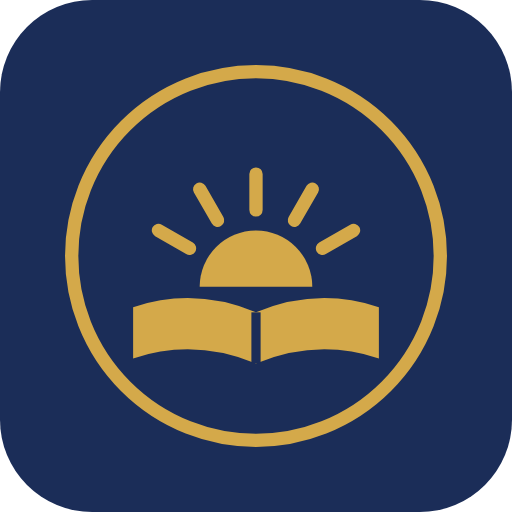
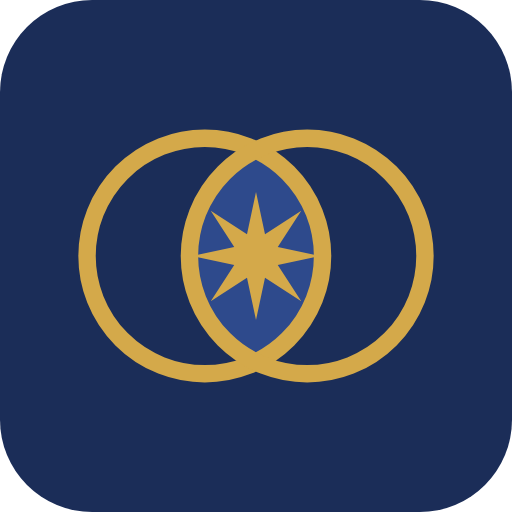
Restore the two-circles mark
Claude-Session: https://claude.ai/code/session_01EKpusVqUuYe8LVjzqWMAQ1

Changed region(s): [[0.125, 0.125, 0.875, 0.875]]

diff --git a/index.html b/index.html
@@ -12,12 +12,12 @@
 <meta property="og:title" content="Orientale Lumen Institute"><meta property="og:description" content="Spiritual, biblical, and theological education that values grassroots dialogue between Orthodox and Catholics. An institute of the Orientale Lumen Foundation.">
 <meta property="og:url" content="https://ol-institute.com/"><meta property="og:image" content="https://ol-institute.com/img/holy-fathers.jpg">
 <meta name="twitter:card" content="summary_large_image">
-<link rel="icon" href="img/brand/favicon.svg" type="image/svg+xml"><link rel="icon" href="img/brand/favicon.ico" sizes="any">
+<link rel="icon" href="img/brand/favicon.svg?v=2" type="image/svg+xml"><link rel="icon" href="img/brand/favicon.ico" sizes="any">
 <link rel="apple-touch-icon" href="img/brand/apple-touch-icon.png"><link rel="manifest" href="site.webmanifest">
 <meta name="theme-color" content="#14131a">
 <link rel="preconnect" href="https://fonts.googleapis.com"><link rel="preconnect" href="https://fonts.gstatic.com" crossorigin>
 <link rel="stylesheet" href="https://fonts.googleapis.com/css2?family=Mrs+Saint+Delafield&family=Spectral:ital,wght@0,400;0,500;0,600;1,400;1,500&family=Source+Sans+3:wght@400;500;600&display=swap">
-<link rel="stylesheet" href="styles.css?v=1022e">
+<link rel="stylesheet" href="styles.css?v=1022f">
 <script type="application/ld+json">{"@context": "https://schema.org", "@type": "EducationalOrganization", "name": "Orientale Lumen Institute", "url": "https://ol-institute.com", "email": "jackfigel@ol-institute.com", "telephone": "+1-703-691-8585", "address": {"@type": "PostalAddress", "streetAddress": "3574 University Drive", "addressLocality": "Fairfax", "addressRegion": "VA", "postalCode": "22030", "addressCountry": "US"}, "parentOrganization": {"@type": "Organization", "name": "Orientale Lumen Foundation", "url": "https://olfoundation.net"}}</script>
 </head>
 <body>
@@ -26,7 +26,7 @@
   <span>An institute of the <a href="https://olfoundation.net/" target="_blank" rel="noopener">Orientale Lumen Foundation</a></span>
 </div></div>
 <header class="site-head"><div class="wrap bar">
-  <a class="brand" href="index.html"><img src="img/brand/mark.svg" alt="" width="44" height="44"><span><b>Orientale Lumen</b>Institute</span></a>
+  <a class="brand" href="index.html"><img src="img/brand/mark.svg?v=2" alt="" width="44" height="44"><span><b>Orientale Lumen</b>Institute</span></a>
   <button class="menu-btn" id="menu-btn" aria-expanded="false" aria-controls="site-nav"><i aria-hidden="true"></i>Menu</button>
   <nav class="nav" id="site-nav" aria-label="Main"><a href="programs.html">Programs</a><a href="formation.html">Formation</a><a href="gatherings.html">Conferences</a><a href="lectures-from-oxford.html">Kallistos Lectures</a><a href="media.html">Media</a><a href="about.html">About</a><a href="https://ol-institute.com/online-store" target="_blank" rel="noopener">Store</a><a class="btn gold small" href="give.html">Give</a></nav>
 </div></header>
@@ -45,7 +45,7 @@
 <section class="sec letter-sec" id="welcome"><div class="wrap letter">
   <figure class="letter-portrait"><picture><source srcset="img/jack-portrait.webp" type="image/webp"><img src="img/jack-portrait.jpg" alt="Jack Figel" loading="lazy" decoding="async" width="640" height="800"></picture><figcaption><b>Jack Figel</b>Founded the Orientale Lumen Conference in 1997</figcaption></figure>
   <article class="sheet letter-body" aria-label="A word from our founder">
-    <header class="lh"><img src="img/brand/mark.svg" alt="" width="40" height="40"><span><b>Orientale Lumen Institute</b>A word from our founder</span></header>
+    <header class="lh"><img src="img/brand/mark.svg?v=2" alt="" width="40" height="40"><span><b>Orientale Lumen Institute</b>A word from our founder</span></header>
     <p class="salute">Dear friends,</p>
     <p>When I started the Orientale Lumen Conference, Pope John Paul’s apostolic letter <cite>Orientale Lumen</cite> was not getting a lot of attention. Over dinner I proposed an open-to-the-public meeting about it to Bishop Kallistos. He immediately agreed, got his diary out, and we planned the first conference for June 1997. About a hundred people came.</p>
     <p>Ever since, we have tried to keep a balance: prayer for the soul, lectures for the mind, and fellowship for the spirit. Eastern Orthodox, Eastern Catholics and Roman Catholics meet and pray together and learn from each other’s traditions, trying to obey Christ’s command, “that they all may be one,” for which he prayed at the Last Supper.</p>
@@ -136,7 +136,7 @@
 <footer class="site-foot">
   <div class="wrap foot-top">
     <div class="fbrand">
-      <a class="fname" href="index.html"><img src="img/brand/mark.svg" alt="" width="40" height="40" loading="lazy"><span>Orientale Lumen Institute</span></a>
+      <a class="fname" href="index.html"><img src="img/brand/mark.svg?v=2" alt="" width="40" height="40" loading="lazy"><span>Orientale Lumen Institute</span></a>
       <p class="foot-tag">Spiritual, biblical, and theological education that values grassroots dialogue between Orthodox and Catholics.</p>
       <address>3574 University Drive, Fairfax, VA 22030<br><a href="tel:+17036918585">+1 703-691-8585</a> <i>·</i> <a href="mailto:jackfigel@ol-institute.com">jackfigel@ol-institute.com</a></address>
     </div>

diff --git a/programs.html b/programs.html
@@ -12,12 +12,12 @@
 <meta property="og:title" content="Academic Programs · Orientale Lumen Institute"><meta property="og:description" content="Certificate, diploma, and graduate programs in spirituality, Scripture, theology, and ecumenism, plus continuing education.">
 <meta property="og:url" content="https://ol-institute.com/programs.html"><meta property="og:image" content="https://ol-institute.com/img/22-dsc-0042-scaled.jpg">
 <meta name="twitter:card" content="summary_large_image">
-<link rel="icon" href="img/brand/favicon.svg" type="image/svg+xml"><link rel="icon" href="img/brand/favicon.ico" sizes="any">
+<link rel="icon" href="img/brand/favicon.svg?v=2" type="image/svg+xml"><link rel="icon" href="img/brand/favicon.ico" sizes="any">
 <link rel="apple-touch-icon" href="img/brand/apple-touch-icon.png"><link rel="manifest" href="site.webmanifest">
 <meta name="theme-color" content="#14131a">
 <link rel="preconnect" href="https://fonts.googleapis.com"><link rel="preconnect" href="https://fonts.gstatic.com" crossorigin>
 <link rel="stylesheet" href="https://fonts.googleapis.com/css2?family=Mrs+Saint+Delafield&family=Spectral:ital,wght@0,400;0,500;0,600;1,400;1,500&family=Source+Sans+3:wght@400;500;600&display=swap">
-<link rel="stylesheet" href="styles.css?v=1022e">
+<link rel="stylesheet" href="styles.css?v=1022f">
 
 </head>
 <body>
@@ -26,7 +26,7 @@
   <span>An institute of the <a href="https://olfoundation.net/" target="_blank" rel="noopener">Orientale Lumen Foundation</a></span>
 </div></div>
 <header class="site-head"><div class="wrap bar">
-  <a class="brand" href="index.html"><img src="img/brand/mark.svg" alt="" width="44" height="44"><span><b>Orientale Lumen</b>Institute</span></a>
+  <a class="brand" href="index.html"><img src="img/brand/mark.svg?v=2" alt="" width="44" height="44"><span><b>Orientale Lumen</b>Institute</span></a>
   <button class="menu-btn" id="menu-btn" aria-expanded="false" aria-controls="site-nav"><i aria-hidden="true"></i>Menu</button>
   <nav class="nav" id="site-nav" aria-label="Main"><a href="programs.html" aria-current="page">Programs</a><a href="formation.html">Formation</a><a href="gatherings.html">Conferences</a><a href="lectures-from-oxford.html">Kallistos Lectures</a><a href="media.html">Media</a><a href="about.html">About</a><a href="https://ol-institute.com/online-store" target="_blank" rel="noopener">Store</a><a class="btn gold small" href="give.html">Give</a></nav>
 </div></header>
@@ -116,7 +116,7 @@
 <footer class="site-foot">
   <div class="wrap foot-top">
     <div class="fbrand">
-      <a class="fname" href="index.html"><img src="img/brand/mark.svg" alt="" width="40" height="40" loading="lazy"><span>Orientale Lumen Institute</span></a>
+      <a class="fname" href="index.html"><img src="img/brand/mark.svg?v=2" alt="" width="40" height="40" loading="lazy"><span>Orientale Lumen Institute</span></a>
       <p class="foot-tag">Spiritual, biblical, and theological education that values grassroots dialogue between Orthodox and Catholics.</p>
       <address>3574 University Drive, Fairfax, VA 22030<br><a href="tel:+17036918585">+1 703-691-8585</a> <i>·</i> <a href="mailto:jackfigel@ol-institute.com">jackfigel@ol-institute.com</a></address>
     </div>

diff --git a/give.html b/give.html
@@ -12,12 +12,12 @@
 <meta property="og:title" content="Give · Orientale Lumen Institute"><meta property="og:description" content="Make a gift to the Orientale Lumen Institute. Help endow a chair in ecumenical studies and support instructors, lecture materials, and technology.">
 <meta property="og:url" content="https://ol-institute.com/give.html"><meta property="og:image" content="https://ol-institute.com/img/olxxx-liturgy.jpg">
 <meta name="twitter:card" content="summary_large_image">
-<link rel="icon" href="img/brand/favicon.svg" type="image/svg+xml"><link rel="icon" href="img/brand/favicon.ico" sizes="any">
+<link rel="icon" href="img/brand/favicon.svg?v=2" type="image/svg+xml"><link rel="icon" href="img/brand/favicon.ico" sizes="any">
 <link rel="apple-touch-icon" href="img/brand/apple-touch-icon.png"><link rel="manifest" href="site.webmanifest">
 <meta name="theme-color" content="#14131a">
 <link rel="preconnect" href="https://fonts.googleapis.com"><link rel="preconnect" href="https://fonts.gstatic.com" crossorigin>
 <link rel="stylesheet" href="https://fonts.googleapis.com/css2?family=Mrs+Saint+Delafield&family=Spectral:ital,wght@0,400;0,500;0,600;1,400;1,500&family=Source+Sans+3:wght@400;500;600&display=swap">
-<link rel="stylesheet" href="styles.css?v=1022e">
+<link rel="stylesheet" href="styles.css?v=1022f">
 
 </head>
 <body>
@@ -26,7 +26,7 @@
   <span>An institute of the <a href="https://olfoundation.net/" target="_blank" rel="noopener">Orientale Lumen Foundation</a></span>
 </div></div>
 <header class="site-head"><div class="wrap bar">
-  <a class="brand" href="index.html"><img src="img/brand/mark.svg" alt="" width="44" height="44"><span><b>Orientale Lumen</b>Institute</span></a>
+  <a class="brand" href="index.html"><img src="img/brand/mark.svg?v=2" alt="" width="44" height="44"><span><b>Orientale Lumen</b>Institute</span></a>
   <button class="menu-btn" id="menu-btn" aria-expanded="false" aria-controls="site-nav"><i aria-hidden="true"></i>Menu</button>
   <nav class="nav" id="site-nav" aria-label="Main"><a href="programs.html">Programs</a><a href="formation.html">Formation</a><a href="gatherings.html">Conferences</a><a href="lectures-from-oxford.html">Kallistos Lectures</a><a href="media.html">Media</a><a href="about.html">About</a><a href="https://ol-institute.com/online-store" target="_blank" rel="noopener">Store</a><a class="btn gold small" href="give.html" aria-current="page">Give</a></nav>
 </div></header>
@@ -72,7 +72,7 @@
 <footer class="site-foot">
   <div class="wrap foot-top">
     <div class="fbrand">
-      <a class="fname" href="index.html"><img src="img/brand/mark.svg" alt="" width="40" height="40" loading="lazy"><span>Orientale Lumen Institute</span></a>
+      <a class="fname" href="index.html"><img src="img/brand/mark.svg?v=2" alt="" width="40" height="40" loading="lazy"><span>Orientale Lumen Institute</span></a>
       <p class="foot-tag">Spiritual, biblical, and theological education that values grassroots dialogue between Orthodox and Catholics.</p>
       <address>3574 University Drive, Fairfax, VA 22030<br><a href="tel:+17036918585">+1 703-691-8585</a> <i>·</i> <a href="mailto:jackfigel@ol-institute.com">jackfigel@ol-institute.com</a></address>
     </div>

diff --git a/formation.html b/formation.html
@@ -12,12 +12,12 @@
 <meta property="og:title" content="Spiritual Formation · Orientale Lumen Institute"><meta property="og:description" content="Retreats through the Church’s year, spiritual direction, and study pilgrimages as the next step in formation.">
 <meta property="og:url" content="https://ol-institute.com/formation.html"><meta property="og:image" content="https://ol-institute.com/img/16-dsc-0004-scaled.jpg">
 <meta name="twitter:card" content="summary_large_image">
-<link rel="icon" href="img/brand/favicon.svg" type="image/svg+xml"><link rel="icon" href="img/brand/favicon.ico" sizes="any">
+<link rel="icon" href="img/brand/favicon.svg?v=2" type="image/svg+xml"><link rel="icon" href="img/brand/favicon.ico" sizes="any">
 <link rel="apple-touch-icon" href="img/brand/apple-touch-icon.png"><link rel="manifest" href="site.webmanifest">
 <meta name="theme-color" content="#14131a">
 <link rel="preconnect" href="https://fonts.googleapis.com"><link rel="preconnect" href="https://fonts.gstatic.com" crossorigin>
 <link rel="stylesheet" href="https://fonts.googleapis.com/css2?family=Mrs+Saint+Delafield&family=Spectral:ital,wght@0,400;0,500;0,600;1,400;1,500&family=Source+Sans+3:wght@400;500;600&display=swap">
-<link rel="stylesheet" href="styles.css?v=1022e">
+<link rel="stylesheet" href="styles.css?v=1022f">
 
 </head>
 <body>
@@ -26,7 +26,7 @@
   <span>An institute of the <a href="https://olfoundation.net/" target="_blank" rel="noopener">Orientale Lumen Foundation</a></span>
 </div></div>
 <header class="site-head"><div class="wrap bar">
-  <a class="brand" href="index.html"><img src="img/brand/mark.svg" alt="" width="44" height="44"><span><b>Orientale Lumen</b>Institute</span></a>
+  <a class="brand" href="index.html"><img src="img/brand/mark.svg?v=2" alt="" width="44" height="44"><span><b>Orientale Lumen</b>Institute</span></a>
   <button class="menu-btn" id="menu-btn" aria-expanded="false" aria-controls="site-nav"><i aria-hidden="true"></i>Menu</button>
   <nav class="nav" id="site-nav" aria-label="Main"><a href="programs.html">Programs</a><a href="formation.html" aria-current="page">Formation</a><a href="gatherings.html">Conferences</a><a href="lectures-from-oxford.html">Kallistos Lectures</a><a href="media.html">Media</a><a href="about.html">About</a><a href="https://ol-institute.com/online-store" target="_blank" rel="noopener">Store</a><a class="btn gold small" href="give.html">Give</a></nav>
 </div></header>
@@ -97,7 +97,7 @@
 <footer class="site-foot">
   <div class="wrap foot-top">
     <div class="fbrand">
-      <a class="fname" href="index.html"><img src="img/brand/mark.svg" alt="" width="40" height="40" loading="lazy"><span>Orientale Lumen Institute</span></a>
+      <a class="fname" href="index.html"><img src="img/brand/mark.svg?v=2" alt="" width="40" height="40" loading="lazy"><span>Orientale Lumen Institute</span></a>
       <p class="foot-tag">Spiritual, biblical, and theological education that values grassroots dialogue between Orthodox and Catholics.</p>
       <address>3574 University Drive, Fairfax, VA 22030<br><a href="tel:+17036918585">+1 703-691-8585</a> <i>·</i> <a href="mailto:jackfigel@ol-institute.com">jackfigel@ol-institute.com</a></address>
     </div>

diff --git a/lectures-from-oxford.html b/lectures-from-oxford.html
@@ -12,12 +12,12 @@
 <meta property="og:title" content="Lectures from Oxford · Orientale Lumen Institute"><meta property="og:description" content="Over 100 lectures by Metropolitan Kallistos of Diokleia in six volumes, as books, video and audio.">
 <meta property="og:url" content="https://ol-institute.com/lectures-from-oxford.html"><meta property="og:image" content="https://ol-institute.com/img/41-olee3-panel.jpg">
 <meta name="twitter:card" content="summary_large_image">
-<link rel="icon" href="img/brand/favicon.svg" type="image/svg+xml"><link rel="icon" href="img/brand/favicon.ico" sizes="any">
+<link rel="icon" href="img/brand/favicon.svg?v=2" type="image/svg+xml"><link rel="icon" href="img/brand/favicon.ico" sizes="any">
 <link rel="apple-touch-icon" href="img/brand/apple-touch-icon.png"><link rel="manifest" href="site.webmanifest">
 <meta name="theme-color" content="#14131a">
 <link rel="preconnect" href="https://fonts.googleapis.com"><link rel="preconnect" href="https://fonts.gstatic.com" crossorigin>
 <link rel="stylesheet" href="https://fonts.googleapis.com/css2?family=Mrs+Saint+Delafield&family=Spectral:ital,wght@0,400;0,500;0,600;1,400;1,500&family=Source+Sans+3:wght@400;500;600&display=swap">
-<link rel="stylesheet" href="styles.css?v=1022e">
+<link rel="stylesheet" href="styles.css?v=1022f">
 
 </head>
 <body>
@@ -26,7 +26,7 @@
   <span>An institute of the <a href="https://olfoundation.net/" target="_blank" rel="noopener">Orientale Lumen Foundation</a></span>
 </div></div>
 <header class="site-head"><div class="wrap bar">
-  <a class="brand" href="index.html"><img src="img/brand/mark.svg" alt="" width="44" height="44"><span><b>Orientale Lumen</b>Institute</span></a>
+  <a class="brand" href="index.html"><img src="img/brand/mark.svg?v=2" alt="" width="44" height="44"><span><b>Orientale Lumen</b>Institute</span></a>
   <button class="menu-btn" id="menu-btn" aria-expanded="false" aria-controls="site-nav"><i aria-hidden="true"></i>Menu</button>
   <nav class="nav" id="site-nav" aria-label="Main"><a href="programs.html">Programs</a><a href="formation.html">Formation</a><a href="gatherings.html">Conferences</a><a href="lectures-from-oxford.html" aria-current="page">Kallistos Lectures</a><a href="media.html">Media</a><a href="about.html">About</a><a href="https://ol-institute.com/online-store" target="_blank" rel="noopener">Store</a><a class="btn gold small" href="give.html">Give</a></nav>
 </div></header>
@@ -139,7 +139,7 @@
 <footer class="site-foot">
   <div class="wrap foot-top">
     <div class="fbrand">
-      <a class="fname" href="index.html"><img src="img/brand/mark.svg" alt="" width="40" height="40" loading="lazy"><span>Orientale Lumen Institute</span></a>
+      <a class="fname" href="index.html"><img src="img/brand/mark.svg?v=2" alt="" width="40" height="40" loading="lazy"><span>Orientale Lumen Institute</span></a>
       <p class="foot-tag">Spiritual, biblical, and theological education that values grassroots dialogue between Orthodox and Catholics.</p>
       <address>3574 University Drive, Fairfax, VA 22030<br><a href="tel:+17036918585">+1 703-691-8585</a> <i>·</i> <a href="mailto:jackfigel@ol-institute.com">jackfigel@ol-institute.com</a></address>
     </div>

diff --git a/media.html b/media.html
@@ -12,12 +12,12 @@
 <meta property="og:title" content="Media &amp; Publications · Orientale Lumen Institute"><meta property="og:description" content="OLTelevision, Eastern Christian Publications, and media production.">
 <meta property="og:url" content="https://ol-institute.com/media.html"><meta property="og:image" content="https://ol-institute.com/img/olxxx-koch-address.jpg">
 <meta name="twitter:card" content="summary_large_image">
-<link rel="icon" href="img/brand/favicon.svg" type="image/svg+xml"><link rel="icon" href="img/brand/favicon.ico" sizes="any">
+<link rel="icon" href="img/brand/favicon.svg?v=2" type="image/svg+xml"><link rel="icon" href="img/brand/favicon.ico" sizes="any">
 <link rel="apple-touch-icon" href="img/brand/apple-touch-icon.png"><link rel="manifest" href="site.webmanifest">
 <meta name="theme-color" content="#14131a">
 <link rel="preconnect" href="https://fonts.googleapis.com"><link rel="preconnect" href="https://fonts.gstatic.com" crossorigin>
 <link rel="stylesheet" href="https://fonts.googleapis.com/css2?family=Mrs+Saint+Delafield&family=Spectral:ital,wght@0,400;0,500;0,600;1,400;1,500&family=Source+Sans+3:wght@400;500;600&display=swap">
-<link rel="stylesheet" href="styles.css?v=1022e">
+<link rel="stylesheet" href="styles.css?v=1022f">
 
 </head>
 <body>
@@ -26,7 +26,7 @@
   <span>An institute of the <a href="https://olfoundation.net/" target="_blank" rel="noopener">Orientale Lumen Foundation</a></span>
 </div></div>
 <header class="site-head"><div class="wrap bar">
-  <a class="brand" href="index.html"><img src="img/brand/mark.svg" alt="" width="44" height="44"><span><b>Orientale Lumen</b>Institute</span></a>
+  <a class="brand" href="index.html"><img src="img/brand/mark.svg?v=2" alt="" width="44" height="44"><span><b>Orientale Lumen</b>Institute</span></a>
   <button class="menu-btn" id="menu-btn" aria-expanded="false" aria-controls="site-nav"><i aria-hidden="true"></i>Menu</button>
   <nav class="nav" id="site-nav" aria-label="Main"><a href="programs.html">Programs</a><a href="formation.html">Formation</a><a href="gatherings.html">Conferences</a><a href="lectures-from-oxford.html">Kallistos Lectures</a><a href="media.html" aria-current="page">Media</a><a href="about.html">About</a><a href="https://ol-institute.com/online-store" target="_blank" rel="noopener">Store</a><a class="btn gold small" href="give.html">Give</a></nav>
 </div></header>
@@ -74,7 +74,7 @@
 <footer class="site-foot">
   <div class="wrap foot-top">
     <div class="fbrand">
-      <a class="fname" href="index.html"><img src="img/brand/mark.svg" alt="" width="40" height="40" loading="lazy"><span>Orientale Lumen Institute</span></a>
+      <a class="fname" href="index.html"><img src="img/brand/mark.svg?v=2" alt="" width="40" height="40" loading="lazy"><span>Orientale Lumen Institute</span></a>
       <p class="foot-tag">Spiritual, biblical, and theological education that values grassroots dialogue between Orthodox and Catholics.</p>
       <address>3574 University Drive, Fairfax, VA 22030<br><a href="tel:+17036918585">+1 703-691-8585</a> <i>·</i> <a href="mailto:jackfigel@ol-institute.com">jackfigel@ol-institute.com</a></address>
     </div>

diff --git a/gatherings.html b/gatherings.html
@@ -12,12 +12,12 @@
 <meta property="og:title" content="Conferences &amp; Lectures · Orientale Lumen Institute"><meta property="og:description" content="An annual flagship conference and a quarterly lecture series.">
 <meta property="og:url" content="https://ol-institute.com/gatherings.html"><meta property="og:image" content="https://ol-institute.com/img/olxxx-hero-panel.jpg">
 <meta name="twitter:card" content="summary_large_image">
-<link rel="icon" href="img/brand/favicon.svg" type="image/svg+xml"><link rel="icon" href="img/brand/favicon.ico" sizes="any">
+<link rel="icon" href="img/brand/favicon.svg?v=2" type="image/svg+xml"><link rel="icon" href="img/brand/favicon.ico" sizes="any">
 <link rel="apple-touch-icon" href="img/brand/apple-touch-icon.png"><link rel="manifest" href="site.webmanifest">
 <meta name="theme-color" content="#14131a">
 <link rel="preconnect" href="https://fonts.googleapis.com"><link rel="preconnect" href="https://fonts.gstatic.com" crossorigin>
 <link rel="stylesheet" href="https://fonts.googleapis.com/css2?family=Mrs+Saint+Delafield&family=Spectral:ital,wght@0,400;0,500;0,600;1,400;1,500&family=Source+Sans+3:wght@400;500;600&display=swap">
-<link rel="stylesheet" href="styles.css?v=1022e">
+<link rel="stylesheet" href="styles.css?v=1022f">
 
 </head>
 <body>
@@ -26,7 +26,7 @@
   <span>An institute of the <a href="https://olfoundation.net/" target="_blank" rel="noopener">Orientale Lumen Foundation</a></span>
 </div></div>
 <header class="site-head"><div class="wrap bar">
-  <a class="brand" href="index.html"><img src="img/brand/mark.svg" alt="" width="44" height="44"><span><b>Orientale Lumen</b>Institute</span></a>
+  <a class="brand" href="index.html"><img src="img/brand/mark.svg?v=2" alt="" width="44" height="44"><span><b>Orientale Lumen</b>Institute</span></a>
   <button class="menu-btn" id="menu-btn" aria-expanded="false" aria-controls="site-nav"><i aria-hidden="true"></i>Menu</button>
   <nav class="nav" id="site-nav" aria-label="Main"><a href="programs.html">Programs</a><a href="formation.html">Formation</a><a href="gatherings.html" aria-current="page">Conferences</a><a href="lectures-from-oxford.html">Kallistos Lectures</a><a href="media.html">Media</a><a href="about.html">About</a><a href="https://ol-institute.com/online-store" target="_blank" rel="noopener">Store</a><a class="btn gold small" href="give.html">Give</a></nav>
 </div></header>
@@ -77,7 +77,7 @@
 <footer class="site-foot">
   <div class="wrap foot-top">
     <div class="fbrand">
-      <a class="fname" href="index.html"><img src="img/brand/mark.svg" alt="" width="40" height="40" loading="lazy"><span>Orientale Lumen Institute</span></a>
+      <a class="fname" href="index.html"><img src="img/brand/mark.svg?v=2" alt="" width="40" height="40" loading="lazy"><span>Orientale Lumen Institute</span></a>
       <p class="foot-tag">Spiritual, biblical, and theological education that values grassroots dialogue between Orthodox and Catholics.</p>
       <address>3574 University Drive, Fairfax, VA 22030<br><a href="tel:+17036918585">+1 703-691-8585</a> <i>·</i> <a href="mailto:jackfigel@ol-institute.com">jackfigel@ol-institute.com</a></address>
     </div>

diff --git a/about.html b/about.html
@@ -12,12 +12,12 @@
 <meta property="og:title" content="About · Orientale Lumen Institute"><meta property="og:description" content="About the Orientale Lumen Institute, its advisory bodies, and how to contact it.">
 <meta property="og:url" content="https://ol-institute.com/about.html"><meta property="og:image" content="https://ol-institute.com/img/40-olee3-openinggroup.jpg">
 <meta name="twitter:card" content="summary_large_image">
-<link rel="icon" href="img/brand/favicon.svg" type="image/svg+xml"><link rel="icon" href="img/brand/favicon.ico" sizes="any">
+<link rel="icon" href="img/brand/favicon.svg?v=2" type="image/svg+xml"><link rel="icon" href="img/brand/favicon.ico" sizes="any">
 <link rel="apple-touch-icon" href="img/brand/apple-touch-icon.png"><link rel="manifest" href="site.webmanifest">
 <meta name="theme-color" content="#14131a">
 <link rel="preconnect" href="https://fonts.googleapis.com"><link rel="preconnect" href="https://fonts.gstatic.com" crossorigin>
 <link rel="stylesheet" href="https://fonts.googleapis.com/css2?family=Mrs+Saint+Delafield&family=Spectral:ital,wght@0,400;0,500;0,600;1,400;1,500&family=Source+Sans+3:wght@400;500;600&display=swap">
-<link rel="stylesheet" href="styles.css?v=1022e">
+<link rel="stylesheet" href="styles.css?v=1022f">
 
 </head>
 <body>
@@ -26,7 +26,7 @@
   <span>An institute of the <a href="https://olfoundation.net/" target="_blank" rel="noopener">Orientale Lumen Foundation</a></span>
 </div></div>
 <header class="site-head"><div class="wrap bar">
-  <a class="brand" href="index.html"><img src="img/brand/mark.svg" alt="" width="44" height="44"><span><b>Orientale Lumen</b>Institute</span></a>
+  <a class="brand" href="index.html"><img src="img/brand/mark.svg?v=2" alt="" width="44" height="44"><span><b>Orientale Lumen</b>Institute</span></a>
   <button class="menu-btn" id="menu-btn" aria-expanded="false" aria-controls="site-nav"><i aria-hidden="true"></i>Menu</button>
   <nav class="nav" id="site-nav" aria-label="Main"><a href="programs.html">Programs</a><a href="formation.html">Formation</a><a href="gatherings.html">Conferences</a><a href="lectures-from-oxford.html">Kallistos Lectures</a><a href="media.html">Media</a><a href="about.html" aria-current="page">About</a><a href="https://ol-institute.com/online-store" target="_blank" rel="noopener">Store</a><a class="btn gold small" href="give.html">Give</a></nav>
 </div></header>
@@ -89,7 +89,7 @@
 <footer class="site-foot">
   <div class="wrap foot-top">
     <div class="fbrand">
-      <a class="fname" href="index.html"><img src="img/brand/mark.svg" alt="" width="40" height="40" loading="lazy"><span>Orientale Lumen Institute</span></a>
+      <a class="fname" href="index.html"><img src="img/brand/mark.svg?v=2" alt="" width="40" height="40" loading="lazy"><span>Orientale Lumen Institute</span></a>
       <p class="foot-tag">Spiritual, biblical, and theological education that values grassroots dialogue between Orthodox and Catholics.</p>
       <address>3574 University Drive, Fairfax, VA 22030<br><a href="tel:+17036918585">+1 703-691-8585</a> <i>·</i> <a href="mailto:jackfigel@ol-institute.com">jackfigel@ol-institute.com</a></address>
     </div>
